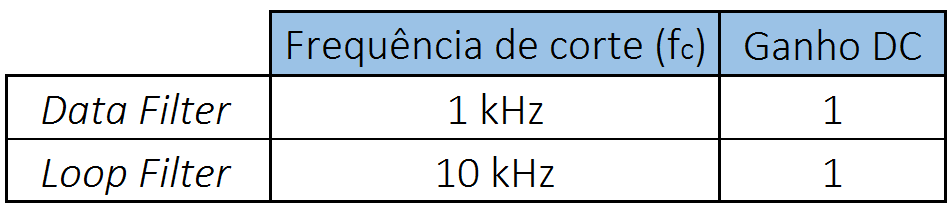
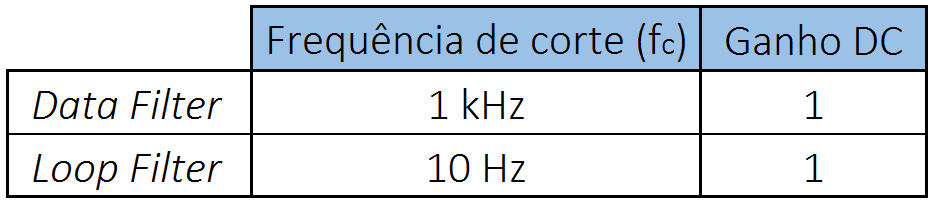
continuacao das bandas e revisao de algumas partes

diff --git a/project2/seps_proj2.tex b/project2/seps_proj2.tex
@@ -296,8 +296,6 @@ De modo a aceder aos 5 \textit{bits} pretendidos da variável de estado, é real
 	...
 \end{lstlisting}
 
-\change{david - aqui o prof tambem se queixou do and com 31}
-
 Foram depois criadas duas variáveis com o objectivo de controlar a amplitude e frequência do sinal sinusoidal. A variável \texttt{delta} representa o controlo da frequência e a variável \texttt{amp} representa o controlo da amplitude. O código que permite implementar este controlo é apresentado de seguida.  
 
 \begin{lstlisting}[language=C]
@@ -689,7 +687,7 @@ O espectro de $y_n$ permite verificar o fenómeno de modulação, na medida em q
 
 Analisando agora a Figura 1 verifica-se que do transmissor BPSK ainda falta implementar o módulo de \textit{scrambler}. Nesta altura do desenvolvimento do projecto já estão implementados os módulos de geração de \textit{bits}, de codificação diferencial e de modulação, estando o sinal BPSK, $x\left(t\right)$, disponível.
 
-A geração de \textit{bits} que se implementou é, no fundo, um simples gerador de uma sequência de \textit{bits} bem definida ($b_n$ = 1, 0, 1, 0, \ldots). No entanto, esta sequência não é apropriada para transmissão e, como tal, a sequência referida anteriormente necessita de ser ``misturada'' de modos a que surja de forma aleatória. Para se efectuar isto recorre-se a um circuito denominado de \textit{scrambler}.
+A geração de \textit{bits} que se implementou é, no fundo, um simples gerador de uma sequência de \textit{bits} bem definida ($b_n$ = 1, 0, 1, 0, \ldots). No entanto, esta sequência não é apropriada para transmissão e, como tal, a sequência referida anteriormente necessita de ser ``misturada'' de modo a que surja de forma aleatória. Para se efectuar isto recorre-se a um circuito denominado de \textit{scrambler}.
 
 O \textit{scrambler} é um dispositivo que inverte a ordem e polaridade dos \textit{bits} da mensagem a ser enviada. A utilização deste dispositivo tem dois principais objectivos, a facilidade de execução dos circuitos de recuperação de relógio, \textit{clock and data recovery},e outros circuitos adaptativos do receptor. Esta melhoria deve-se ao facto do \textit{scambler} eliminar longas sequências constantes de \texttt{0} ou \texttt{1} O outro objectivo deve-se ao facto de eliminar a dependência do sinal a ser transmitido no espectro de potência, ou seja, o sinal transmitido fica mais disperso de forma a maximizar os requisitos do espectro de potência. Pois se a potência for concentrada numa largura de banda limitada pode haver interferência nos canais adjacentes do receptor devido à intermodulação, este fenómeno é conhecido por \textit{cross-modulation}.
 
@@ -711,11 +709,11 @@ Analisando o esquema proposto efectuou-se a implementação do circuito na DSP c
 Começou-se por definir uma variável de 8 \textit{bits}, \texttt{char delay\_scrambler} que guarda os atrasos temporais de até 7 períodos. O código seguinte demonstra a implementação e obtenção dos atrasos necessários para o \textit{scrambler}. É de referir que onde o sinal de entrada consiste na sequência de \textit{bits} \texttt{b\_n} gerada anteriormente:
 
 \begin{lstlisting}[language=C]
-		...
-	 unsigned char delay_scrambler=0,...;
-	 ...
-		delay_scrambler = (delay_scrambler>>1)&0x7f;/*Deslocamento temporal*/
-		delay_scrambler = delay_scrambler | (e_n<<7);/*Actualizacao do novo valor de e_n no vector*/	
+	unsigned char delay_scrambler=0,...;
+	
+	...
+		delay_scrambler = (delay_scrambler>>1)&0x7f; // deslocamento temporal
+		delay_scrambler = delay_scrambler|(e_n<<7); //actualizacao do novo valor de e_n no vector	
 	...
 \end{lstlisting}
 
@@ -741,17 +739,16 @@ Com a actualização do vector \texttt{dela\_scarmbler} realizada a obtenção d
 Começa-se por somar os resultados do \textit{scrambler} referente ao atraso 6 e 7
 \todo{imagem da sequencia aleatoria de bits}
 
+\pagebreak
+
 \section{Projecto $\#$3 - Receptor BPSK}
 
 \todo{descrambler - teddy}
 
-COSTAS LOOP
 
-\todo{1 - teddy}
+\todo{seno e coseno em quadratura}
 
-\todo{2 e 3 - david - nas imagens e bom tirar a LB, para comprovar que esta a funcionar}
-
-O modem BPSK, apresentado na Figura 2, é constituído por vários módulos, sendo que três desses módulos tratam-se de filtros passa-baixo. Esses filtros apresentam um pólo e um zero, satisfazendo a seguinte equação às diferenças:
+O \textit{modem} BPSK, apresentado na Figura 2, é constituído por vários módulos, sendo que três desses módulos tratam-se de filtros passa-baixo. Esses filtros apresentam um pólo e um zero, satisfazendo a seguinte equação às diferenças:
 
 \vspace{-3mm}
 \begin{equation}
@@ -810,7 +807,7 @@ De onde vem:
 \end{equation} 
 
 \vspace{1mm}
-Sabe-se, à \textit{priori}, analisando a função de transferência H(z), já com $\gamma = 1$, que o valor de $\alpha$ tem que estar compreendido entre -1 e 1 para o filtro ser estável, sendo que esse valor, para o filtro ser passa-baixo, tem que estar definido entre 0 e 1. Mais ainda, esse valor vai ser diferente para os dois tipos de filtros, visto que o mesmo é determinado em função da frequência de corte, \textit{$f_c$}. Recorrendo à expressão do ganho do filtro vem:
+Sabe-se, à \textit{priori}, analisando a função de transferência $H(z)$, já com $\gamma = 1$, que o valor de $\alpha$ tem que estar compreendido entre -1 e 1 para o filtro ser estável, sendo que esse valor, para o filtro ser passa-baixo, tem que estar definido entre 0 e 1. Mais ainda, esse valor vai ser diferente para os dois tipos de filtros, visto que o mesmo é determinado em função da frequência de corte, \textit{$f_c$}. Recorrendo à expressão do ganho do filtro vem:
 
 \vspace{-3mm}
 \begin{equation}
@@ -855,10 +852,11 @@ resultando, finalmente:
 \vspace{-3mm}
 \begin{equation}
 \omega_c = \frac{1 - \alpha}{\alpha T_s} = \frac{1 - \alpha}{\alpha} f_s
+\label{eq:alfa}
 \end{equation} 
 
 \vspace{1mm}
-Assim, tendo em conta que $f_s = 16$ kHz, pode-se calcular o valor de $\alpha$ para os filtros \textit{data} e filtro \textit{loop}. Sabendo que o valor vai estar contido no intervalo $]0,1[$, pode-se utilizar a representação numérica mais precisa $Q_{15}$ para representar o valor de $\alpha$, de forma a efectuar a implementação dos filtros. Na tabela seguinte, são apresentados os valores de $\alpha$ e também a sua conversão em $Q_{15}$.
+Assim, tendo em conta que $f_s = 16$ kHz, pode-se calcular o valor de $\alpha$ para os filtros de dados e filtro de \textit{loop}. Sabendo que o valor vai estar contido no intervalo $]0,1[$, pode-se utilizar a representação numérica mais precisa $Q_{15}$ para representar o valor de $\alpha$, de forma a efectuar a implementação dos filtros. Na tabela seguinte, são apresentados os valores de $\alpha$ e também a sua conversão em $Q_{15}$.
 
 \begin{table}[H]
 	\centering
@@ -871,61 +869,64 @@ Assim, conhecendo-se todos os parâmetros das funções de transferência dos fi
 
 \vspace{-3mm}
 \begin{equation}
-y(n) = \alpha y(n-1) +  (1-\alpha)x(n)
+y(n) = \alpha y(n-1) +  (1-\alpha)x(n),
 \end{equation} 
 
-sendo que um dos filtros \textit{Data} tem como entrada o sinal resultante da multiplicação entre o sinal BPSK e o sinal $\cos(2\pi f_0 + \phi_0)$ e o outro tem como entrada o sinal resultante da multiplicação entre o sinal BPSK e o sinal $\sin(2\pi f_0 + \phi_0)$. De seguida, é apresentado o excerto de código que permite implementar os filtros. 
+\vspace{1mm}
+sendo que um dos filtros de dados tem como entrada o sinal resultante da multiplicação entre o sinal BPSK e o sinal $\cos(2\pi f_0 + \phi_0)$ e o outro tem como entrada o sinal resultante da multiplicação entre o sinal BPSK e o sinal $\sin(2\pi f_0 + \phi_0)$. De seguida, é apresentado o excerto de código que permite implementar os filtros. 
 
 \begin{lstlisting}[language=C]
-short x_cos = 0, x_sine = 0, y_cos_datafilter = 0, y_sin_datafilter = 0;  short in_loopfilter = 0, y_loop filter = 0, alpha_1k = 23528; 
-short alpha_10 = 32640, um_menos_alpha_1k = 9240, um_menos_alpha_10 = 127;
+	short x_cos = 0, x_sine = 0, y_cos_datafilter = 0, y_sin_datafilter = 0;  
+	short in_loopfilter = 0, y_loop filter = 0, alpha_1k = 23528; 
+	short alpha_10 = 32640, um_menos_alpha_1k = 9240, um_menos_alpha_10 = 127;
 
-...
- //Data Filter
- x_cos = ((xt_bpsk*y_cos)<<1)>>16;
- x_sine = ((xt_bpsk*y_sin)<<1)>>16;
- y_cos_datafilter=(((alpha_1k*y_cos_datafilter)<<1)+((x_cos*um_menos_alpha_1k)<<1))>>16;
- y_sin_datafilter=(((alpha_1k*y_sin_datafilter)<<1)+((x_sine*um_menos_alpha_1k)<<1))>>16;
-
- //Loop Filter
- in_loopfilter = ((y_cos_datafilter*y_sin_datafilter)<<1)>>16;
- y_loopfilter = (((alpha_10*y_loopfilter)<<1)+ ((in_loopfilter*um_menos_alpha_10)<<1))>>16;
-...
-
+	...
+		//filtro de dados
+		x_cos = ((xt_bpsk*y_cos)<<1)>>16;
+		x_sine = ((xt_bpsk*y_sin)<<1)>>16;
+		y_cos_datafilter = (((alpha_1k*y_cos_datafilter)<<1)
+										 + ((x_cos*um_menos_alpha_1k)<<1))>>16;
+		y_sin_datafilter = (((alpha_1k*y_sin_datafilter)<<1)
+										 + ((x_sine*um_menos_alpha_1k)<<1))>>16;
+	
+		//filtro de loop
+		in_loopfilter = ((y_cos_datafilter*y_sin_datafilter)<<1)>>16;
+		y_loopfilter = (((alpha_10*y_loopfilter)<<1) 
+								 + ((in_loopfilter*um_menos_alpha_10)<<1))>>16;
+	...
 \end{lstlisting}
-\todo{apresentar código de uma forma melhor}
 
-No entanto, antes de ligar todo o sistema, é importante testar o filtro que tem frequência de corte de $f_c = 1 kHz$, pondo à entrada do mesmo um sinal proveniente do gerador de sinais, de forma a comprovar o correcto funcionamento do filtro, não sendo possível testar o filtro com frequência de corte de 10 Hz, já que à entrada da placa se encontra impossível, o que torna impossível verificar que a implementação do \textit{Loop Filter} está correcta. Assim, para o filtro \textit{Data}, visualizou-se a saída do mesmo, apresentada na Figura X, com um sinal de entrada sinusoidal de 250 Hz, de forma a verificar o ganho em baixas frequências.
+No entanto, antes de ligar todo o sistema, é importante testar o filtro que tem frequência de corte de $f_c = 1 kHz$. Para efectuar este teste põe-se à entrada do filtro um sinal proveniente do gerador de sinais, de forma a comprovar o correcto funcionamento deste. É de referir que não é possível testar o filtro com frequência de corte de 10 Hz, já que à entrada da placa se encontra um filtro com frequência de corte 20 Hz, o que torna impossível verificar que a implementação do filtro de \textit{loop} está correcta. Assim, para o filtro de dados, visualizou-se a saída do mesmo, apresentada na Figura X, com um sinal de entrada sinusoidal de 250 Hz, de forma a verificar o ganho em baixas frequências.
 
 \begin{figure}[H]
 	\centering
 	\includegraphics[keepaspectratio=true, scale=0.37]{exps/filtro_1k_baixafreq}
-	\caption{Verificação do ganho em baixas frequências - sinal de entrada (a verde) e sinal de saída (a amarelo) do filtro \textit{data}.}
+	\caption{Verificação do ganho em baixas frequências - sinal de entrada (a verde) e sinal de saída (a amarelo) do filtro de dados.}
 	\vspace{-0.8em}
 \end{figure} 
 
-Analisando os valores de amplitude dos dois sinais, pode verificar-se que o ganho é de, aproximadamente, $1/2$, não correspondendo ao ganho unitário pretendido, o que se deve ao facto da placa introduzir um factor de ganho que faz com que o sinal de saída do filtro tenha um ganho inferior a 1. 
-Testou-se ainda a frequência de corte, sendo que para isso aumentou-se a frequência do sinal de entrada até o sinal de saída do filtro apresentar uma queda de 3 dB, ou seja, tendo o ganho em baixa frequência o valor de 1.01 V, pretende-se registar a frequência a que o filtro apresenta no sinal de saída um valor de, aproximadamente, 0.7 V.
+Analisando os valores de amplitude dos sinais, pode verificar-se que o ganho é de, aproximadamente, $1/2$, não correspondendo ao ganho unitário pretendido, o que se deve ao facto da placa introduzir um factor de ganho que faz com que o sinal de saída do filtro tenha um ganho inferior a 1. 
+
+Testou-se ainda a frequência de corte, sendo que, para isso, aumentou-se a frequência do sinal de entrada até o sinal de saída do filtro apresentar uma queda de 3 dB, ou seja, tendo um ganho em baixa frequência de 1.01 V. 
+
+Pretende-se registar a frequência a que o filtro apresenta no sinal de saída um valor de, aproximadamente, 0.7 V.
 
 \vspace{-3mm}
 \begin{equation}
-	|H(j\omega_{-3dB})| = \frac{|H(j\omega \approx 0)|}{\sqrt{2}} = \frac{1}{\sqrt{2}} \approx 0.7 V
+	|H(j\omega_{-3~\text{dB}})| = \frac{|H(j\omega \approx 0)|}{\sqrt{2}} \approx \frac{1}{\sqrt{2}} = 0.7 V
 \end{equation} 
 
-Verificou-se, como se pode observar na Figura X, que a frequência de corte apresentava o valor de 963 Hz, o que se trata de um valor próximo de 1 kHz. A pequena diferença em relação ao valor pretendido pode dever-se a se ter registado uma frequência onde ainda não tinham caído exactamente os 3 dB.
+\vspace{1mm}
+Verificou-se, como se pode observar na Figura X, que a frequência de corte apresenta o valor de 963 Hz, o que se trata de um valor próximo de 1 kHz. A pequena diferença em relação ao valor pretendido pode-se dever a se ter registado uma frequência onde ainda não tinham caído exactamente os 3 dB.
 
 \begin{figure}[H]
 	\centering
 	\includegraphics[keepaspectratio=true, scale=0.37]{exps/filtro_1k_freqcorte}
-	\caption{Verificação da frequência de corte - sinal de entrada (a verde) e sinal de saída (a amarelo) do filtro \textit{data}.}
+	\caption{Verificação da frequência de corte - sinal de entrada (a verde) e sinal de saída (a amarelo) do filtro de dados.}
 	\vspace{-0.8em}
 \end{figure} 
 
-
-
 \todo{4 - nao nos lembramos do que era isto}
-
-\todo{5 - margarida}
 
 Com o \textit{Costas Loop} implementado pretende-se testar o seu funcionamento para um sinal de entrada sinusoidal. Numa primeira fase de testes apenas se considera o \textit{upper arm}, de maneira a que o \textit{loop} se comporte como um clássico DPLL (\textit{digital phase locked loop}), tal como se pode observar na figura abaixo. Um DPLL é um tipo de PLL que é realizado com recurso a circuitos lógicos e/ou microprocessadores, tendo a capacidade de processar sinais discretos tanto em tempo como em amplitude.
 
@@ -945,7 +946,7 @@ Posto isto, o PLL pode estar num de dois estados - \textit{locked} (sincronizado
 
 Assim, para testar o correcto funcionamento do PLL projectado é necessário verificar o comportamento do sinal à saída do oscilador controlado e à entrada do detector de fase. No projecto em causa o detector de fase é um multiplicador, que é o adequado para processar sinais do tipo sinusoidal. 
 
-À entrada colocou-se um sinal sinusoidal com amplitude de 1 $V_{PP}$, fazendo-se variar a sua frequência, partindo de um valor inicial de 4 kHz que é a frequência de funcionamento da malha dessincronizada. Nas figuras seguintes apresenta-se o comportamento do PLL para duas situações distintas, estando representado a amarelo o sinal de entrada e a verde o sinal à saída do oscilador controlado.
+À entrada colocou-se um sinal sinusoidal com amplitude de 1 $V_{\text{PP}}$, fazendo-se variar a sua frequência, partindo de um valor inicial de 4 kHz que é a frequência de funcionamento da malha dessincronizada. Nas figuras seguintes apresenta-se o comportamento do PLL para duas situações distintas, estando representado a amarelo o sinal de entrada e a verde o sinal à saída do oscilador controlado.
 
 \begin{figure}[H]
 	\centering
@@ -962,11 +963,13 @@ Para ambas as situações recorreu-se ao modo persistência do osciloscópio, co
 
 Uma vez verificado o correcto funcionamento do \textit{upper arm} do \textit{Costas Loop}, conectou-se o \textit{lower arm} e testou-se todo o \textit{loop} utilizando também um sinal sinusoidal à entrada. Verificou-se que ambos os \textit{arms} apresentam o comportamento esperado. Assim, procede-se à medição da banda de captura e da banda de manutenção do \textit{loop}.
 
-O sinal de entrada deve estar compreendido na banda de captura do \textit{loop}. Uma vez que se adquira o sincronismo, o \textit{loop} manter-se-á nesse estado, dentro de certos limites, que definem a banda de manutenção, sendo que esta banda pode ser diferente da banda de captura. 
+O sinal de entrada deve estar compreendido na banda de captura $\left(\Delta w_{C}\right)$ do \textit{loop}. Uma vez que se adquira o sincronismo, o \textit{loop} manter-se-á nesse estado, dentro de certos limites, que definem a banda de manutenção $\left(\Delta w_{L}\right)$, sendo que esta banda pode ser diferente da banda de captura. 
 
 Para se calcular experimentalmente o valor das bandas é necessário observar o valor médio do sinal de erro, enquanto se faz variar lentamente a frequência do sinal de entrada decrescentemente, partindo de um estado inicial de \textit{loop} dessincronizado, até que ocorre uma captura em $w_{C}^{-}$. De seguida aumenta-se a frequência do sinal de entrada até que se perde o sincronismo em $w_{L}^{+}$. O passo seguinte é efectuar um varrimento no sentido contrário, adquirindo sincronismo em $w_{C}^{+}$ que depois é perdido em $w_{L}^{-}$.
 
 Relativamente ao sinal de erro que se observa nesta medição, considere-se o caso em que o PLL está fora de sincronismo e o oscilador gera uma frequência $f_o$. Quando o \textit{loop} se fecha (ou quando o sinal de entrada tem uma frequência $f_i$) se a diferença entre as duas frequências for pequena o suficiente, então o filtro de  \textit{loop} irá desenvolver um sinal de erro que leva a frequência do oscilador até $f_i$. Eventualmente o \textit{loop} vai adquirir sincronismo e neste estado a frequência média gerada pelo oscilador é igual à frequência média do sinal de entrada.
+
+Na figura seguinte encontra-se uma representação gráfica do valor médio do sinal de erro em função da frequência do sinal de entrada, identificando a banda de captura e de manutenção.
 
 \begin{figure}[H]
 	\centering
@@ -977,7 +980,18 @@ Relativamente ao sinal de erro que se observa nesta medição, considere-se o ca
 
 Da figura anterior verifica-se que, regra geral, $\Delta w_L \geq \Delta w_C$.
 
-\todo{continuar bandas}
+O cálculo das bandas foi feito para situações diferentes da tensão de entrada, $V_{\text{in}} = 1~V_{\text{PP}}$ e $V_{\text{in}} = 3~V_{\text{PP}}$, e também para situações diferentes da frequência de corte do filtro de \textit{loop}, $f_{c} = 10$ Hz e $f_{c} = 100$ Hz.
+
+Como o filtro de \textit{loop} foi projectado para um frequência de corte de 10 Hz, é necessário calcular o valor de $\alpha$ para 100 Hz. Recorrendo à equação (\ref{eq:alfa}) tem-se $\alpha = 0.9622$, cuja representação em $Q_{15}$ é 31529. 
+
+\begin{table}[H]
+	\centering
+	\caption{Cálculo das bandas de captura e de manutenção.}
+	\vspace{-1.5mm}
+	\includegraphics[keepaspectratio=true, scale=0.35]{tabelas/bandas}
+\end{table}
+
+\todo{comentar bandas - tenho a nota do david de que a mallha para sincrozinar precisa de ruido}
 
 O passo seguinte corresponde à conexão entre o modulador do transmissor e o desmodulador do receptor, ou seja, o sinal de entrada do \textit{Costas Loop} é o sinal modelado do tipo BPSK. Este sinal corresponde à multiplicação do sinal $d_n$ com a portadora, como se viu já anteriormente.
 
@@ -985,13 +999,12 @@ O passo seguinte corresponde à conexão entre o modulador do transmissor e o de
 
 \todo{Parte do filtro de 8 k}
 
-Realizando o teste do filtro \textit{Data} com uma entrada sinusoidal de 8 kHz, é possível, observando a Figura X, perceber que o filtro não anula completamente o sinal de entrada, o que causa o problema descrito acima. 
+Realizando o teste do filtro de dados com uma entrada sinusoidal de 8 kHz, é possível, observando a Figura X, perceber que o filtro não anula completamente o sinal de entrada, o que causa o problema descrito acima. 
 
 \begin{figure}[H]
 	\centering
-	\includegraphics[keepaspectratio=true, scale=0.50]{exps/FiltroSemZero8k}
+	\includegraphics[keepaspectratio=true, scale=0.37]{exps/FiltroSemZero8k}
 	\caption{Sinal de entrada(verde) e sinal de saída(amarelo) do filtro \textit{Data}}
-	\label{fig:fluxo}
 	\vspace{-0.8em}
 \end{figure} 
 
@@ -1002,7 +1015,7 @@ De forma a solucionar este problema, implementou-se um filtro idêntico ao já i
 H(z) = \frac{\gamma \frac{1-\alpha}{1-\beta} (1-\beta z^{-1})}{1-\alpha z^{-1}} = 0 \Rightarrow \beta z = 1.
 \end{equation}
 
-
+\vspace{1mm}
 e, para a frequência de 8 kHz, sendo $z = e^{j\omega T_s} = e^{j2\pi \frac{8\times 10^3}{16\times 10^3}}$, é possível determinar o valor de $\beta$.
 	
 Resulta então a função de transferência, mantendo-se os valores de $\alpha e \gamma$:
@@ -1012,6 +1025,7 @@ Resulta então a função de transferência, mantendo-se os valores de $\alpha e
 H(z) = \frac{\gamma \frac{1-\alpha}{2} (1+z^{-1})}{1-\alpha z^{-1}}
 \end{equation}
 
+\vspace{1mm}
 concluindo-se que, em relação à implementação anterior, basta dividir o ganho por 2 e utilizar o valor da amostra anterior, somando-a à actual, respeitando a seguinte equação às diferenças:
 
 \vspace{-3mm}
@@ -1019,31 +1033,32 @@ concluindo-se que, em relação à implementação anterior, basta dividir o gan
 y(n) = \alpha y(n-1) +  (1-\alpha)[x(n) + x(n-1)]
 \end{equation} 
 
+\vspace{1mm}
 cujo excerto de código que permite implementar essa equação é apresentado de seguida.
 
 \begin{lstlisting}[language=C]
-short x_cos = 0, x_sine = 0, y_cos_datafilter = 0, y_sin_datafilter = 0;  
-short in_loopfilter = 0, y_loop filter = 0, alpha_1k = 23528; 
-short alpha_10 = 32640, um_menos_alpha_1k = 9240, um_menos_alpha_10 = 127;
-...
- //Data filter com zero em ws/2
- y_cos_datafilter = (((alpha_1k*y_cos_datafilter)<<1) + ((((x_cos + x_cos_old)*um_menos_alpha_1k)>>1)<<1))>>16;
- y_sin_datafilter = (((alpha_1k*y_sin_datafilter)<<1) + ((((x_sine + x_sine_old)*um_menos_alpha_1k)>>1)<<1))>>16;
+	short x_cos = 0, x_sine = 0, y_cos_datafilter = 0, y_sin_datafilter = 0;  
+	short in_loopfilter = 0, y_loop filter = 0, alpha_1k = 23528; 
+	short alpha_10 = 32640, um_menos_alpha_1k = 9240, um_menos_alpha_10 = 127;
+	
+	...
+		//filtro de dados com zero em ws/2
+		y_cos_datafilter = (((alpha_1k*y_cos_datafilter)<<1) 
+										 + ((((x_cos + x_cos_old)*um_menos_alpha_1k)>>1)<<1))>>16;
+		y_sin_datafilter = (((alpha_1k*y_sin_datafilter)<<1) 
+										 + ((((x_sine + x_sine_old)*um_menos_alpha_1k)>>1)<<1))>>16;
 
- x_cos_old = x_cos;
- x_sine_old = x_sin;
-
-...
-
+		x_cos_old = x_cos;
+		x_sine_old = x_sin;
+	...
 \end{lstlisting}
 
 Na Figura X, pode observar-se a saída do filtro digital implementado com um zero em 8 kHz, para um sinal de entrada sinusoidal com essa frequência. 
 
 \begin{figure}[H]
 	\centering
-	\includegraphics[keepaspectratio=true, scale=0.50]{exps/FiltroComZero8k}
-	\caption{Sinal de entrada(verde) e sinal de saída(amarelo) do filtro \textit{Data}}
-	\label{fig:fluxo}
+	\includegraphics[keepaspectratio=true, scale=0.37]{exps/FiltroComZero8k}
+	\caption{Sinal de entrada(verde) e sinal de saída(amarelo) do filtro de dados.}
 	\vspace{-0.8em}
 \end{figure} 
 
@@ -1051,9 +1066,8 @@ Conclui-se assim que o filtro implementado anula a componente de 8 kHz, o que co
 
 \begin{figure}[H]
 	\centering
-	\includegraphics[keepaspectratio=true, scale=0.50]{exps/pulse_saida_filtro_Sine_mudancanoFiltro}
-	\caption{Sinal à saída do filtro \textit{Data} com \textit{Costas Loop} completo}
-	\label{fig:fluxo}
+	\includegraphics[keepaspectratio=true, scale=0.37]{exps/pulse_saida_filtro_Sine_mudancanoFiltro}
+	\caption{Sinal à saída do filtro \textit{data} com o \textit{Costas Loop} completo.}
 	\vspace{-0.8em}
 \end{figure}
 
@@ -1158,8 +1172,6 @@ void main(){
 			sine_i= sine_i&3;
 			y = sine[sine_i];
 			sine_i++;
-			y = (32767*y)>>15 ; //esta linha e para tirar?
-			
 			
 			/* implementacao do contador sem recurso a instruccao condicional if */
 				//b_i++;
